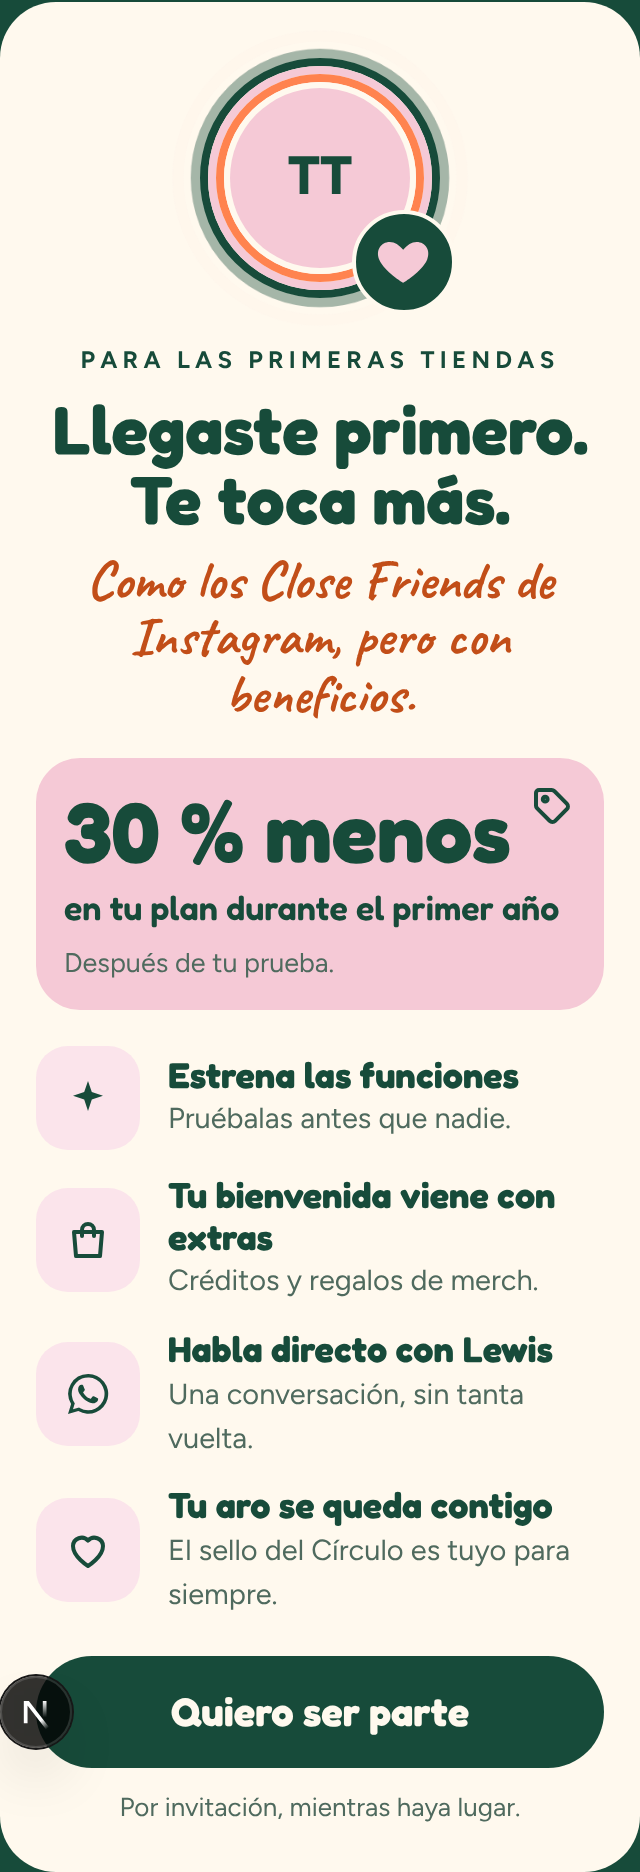
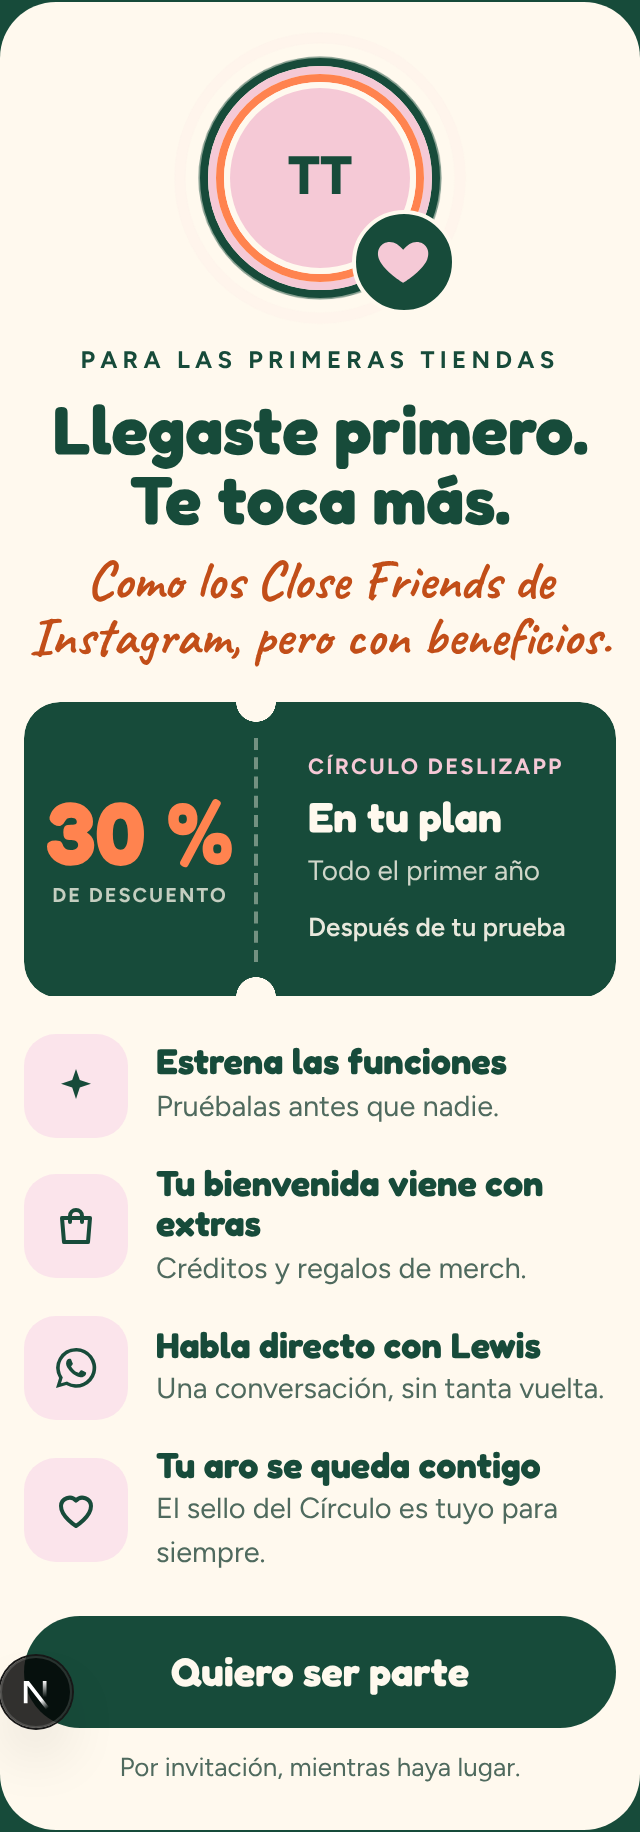
/planes: el 30 % de la tarjeta del Círculo pasa a ser el cupón de la app (TicketPromo, sin código)
Claude-Session: https://claude.ai/code/session_01NZFN1xw2rtVGywTawbCJGm

diff --git a/components/planes/pagina-planes.tsx b/components/planes/pagina-planes.tsx
@@ -2,8 +2,10 @@ import Link from "next/link";
 import type { FotoInicio } from "@/lib/inicio/fotos";
 import { ENLACE_QUIERO_VENDER, RUTA_CONOCE } from "@/lib/landing/enlaces";
 import type { PlanPublico } from "@/lib/planes/planes";
-import { IconoBolsa, IconoChispa, IconoClientes, IconoCorazon, IconoEtiqueta, IconoInstagram, IconoPedidos, IconoReels, IconoWhatsApp } from "../iconos";
+import { IconoBolsa, IconoChispa, IconoClientes, IconoCorazon, IconoInstagram, IconoPedidos, IconoReels, IconoWhatsApp } from "../iconos";
 import { LogoTienda } from "../panel/logo-tienda";
+import { TicketPromo } from "../promos/ticket-promo";
+import type { DatosCupon } from "@/lib/cupon";
 import { FeedFondo } from "../inicio-publico/feed-fondo";
 import "../inicio-publico/pagina-principal.css";
 import { ListaPlanes } from "./lista-planes";
@@ -25,6 +27,21 @@ const BENEFICIOS_CIRCULO = [
 ];
 
 /** El avatar de ejemplo con el aro del Círculo (el mismo de LogoTienda, opción 6). */
+/**
+ * El 30 % de las fundadoras como el cupón de la app. `porcentaje` lleva un espacio fino sin corte al final para que TicketPromo,
+ * que le pega el «%», muestre «30 %» sin tocar el componente.
+ */
+const CUPON_CIRCULO: DatosCupon = {
+  porcentaje: "30\u00a0",
+  bajoPorcentaje: "DE DESCUENTO",
+  tipo: "Círculo Deslizapp",
+  titulo: "En tu plan",
+  esCodigo: false,
+  detalle: "Todo el primer año",
+  fechas: "Después de tu prueba",
+  aviso: null,
+};
+
 const TIENDA_EJEMPLO = { nombre: "Tu tienda", logoUrl: null, circulo: { desde: "2026-10-16", descuentoHasta: null } };
 
 /**
@@ -86,11 +103,9 @@ export function PaginaPlanes({ planes, fotos }: { planes: PlanPublico[]; fotos: 
           </h2>
           <p className="pl-circulo-mano">Como los Close Friends de Instagram, pero con beneficios.</p>
 
-          <div className="pl-circulo-descuento">
-            <IconoEtiqueta tamano={24} className="pl-circulo-etiqueta" />
-            <span className="pl-circulo-treinta">30 % menos</span>
-            <span className="pl-circulo-plan">en tu plan durante el primer año</span>
-            <span className="pl-circulo-prueba">Después de tu prueba.</span>
+          {/* El cupón de la app (TicketPromo, igual que las promos del panel), sin código: no hay nada que canjear. Sin sombra. */}
+          <div className="pl-circulo-cupon" data-cupon-circulo="">
+            <TicketPromo d={CUPON_CIRCULO} apagado={false} />
           </div>
 
           <ul className="pl-circulo-beneficios">

diff --git a/components/planes/pagina-planes.css b/components/planes/pagina-planes.css
@@ -342,42 +342,12 @@ html:has(.pl) body {
   line-height: 1.05;
   color: #c24e18;
 }
-.pl-circulo-descuento {
-  position: relative;
+.pl-circulo-cupon {
   align-self: stretch;
   margin-top: 18px;
-  padding: 16px 14px 14px;
-  border-radius: 22px;
-  background: var(--marca-rosa-fija);
   text-align: left;
 }
-.pl-circulo-etiqueta {
-  position: absolute;
-  top: 12px;
-  right: 14px;
-}
-.pl-circulo-descuento > span {
-  display: block;
-}
-.pl-circulo-treinta {
-  /* ~49 px en un teléfono de 393; baja con el ancho para que «30 % menos» no desborde ni toque la etiqueta de arriba a la derecha
-     (el texto mide ~5,3 veces su tamaño; 136 px = márgenes de la página y de la tarjeta + la etiqueta). */
-  font-family: var(--font-display);
-  font-weight: 700;
-  font-size: clamp(34px, calc((100vw - 136px) / 5.3), 50px);
-  line-height: 1;
-}
-.pl-circulo-plan {
-  margin-top: 4px;
-  font-family: var(--font-display);
-  font-weight: 600;
-  font-size: 17px;
-}
-.pl-circulo-prueba {
-  margin-top: 4px;
-  font-size: 13.5px;
-  color: #4f6a5e;
-}
+
 .pl-circulo-beneficios {
   display: flex;
   flex-direction: column;
@@ -488,5 +458,21 @@ html:has(.pl) body {
   }
   .pl-feed::after {
     background: linear-gradient(180deg, rgba(23, 75, 58, 0.75), rgba(23, 75, 58, 0.92));
+  }
+}
+
+/* El cupón (TicketPromo) tiene medidas fijas: su texto más largo («Después de tu prueba») pide ~290 px de ancho. En teléfonos
+   angostos se achican los márgenes de la tarjeta y de la página para que nada se trunque (a 360: 296 px; a 340: 300 px). */
+@media (max-width: 400px) {
+  .pl-circulo {
+    padding-inline: 12px;
+  }
+}
+@media (max-width: 359px) {
+  .pl-main {
+    padding-inline: max(12px, env(safe-area-inset-left)) max(12px, env(safe-area-inset-right));
+  }
+  .pl-circulo {
+    padding-inline: 8px;
   }
 }
